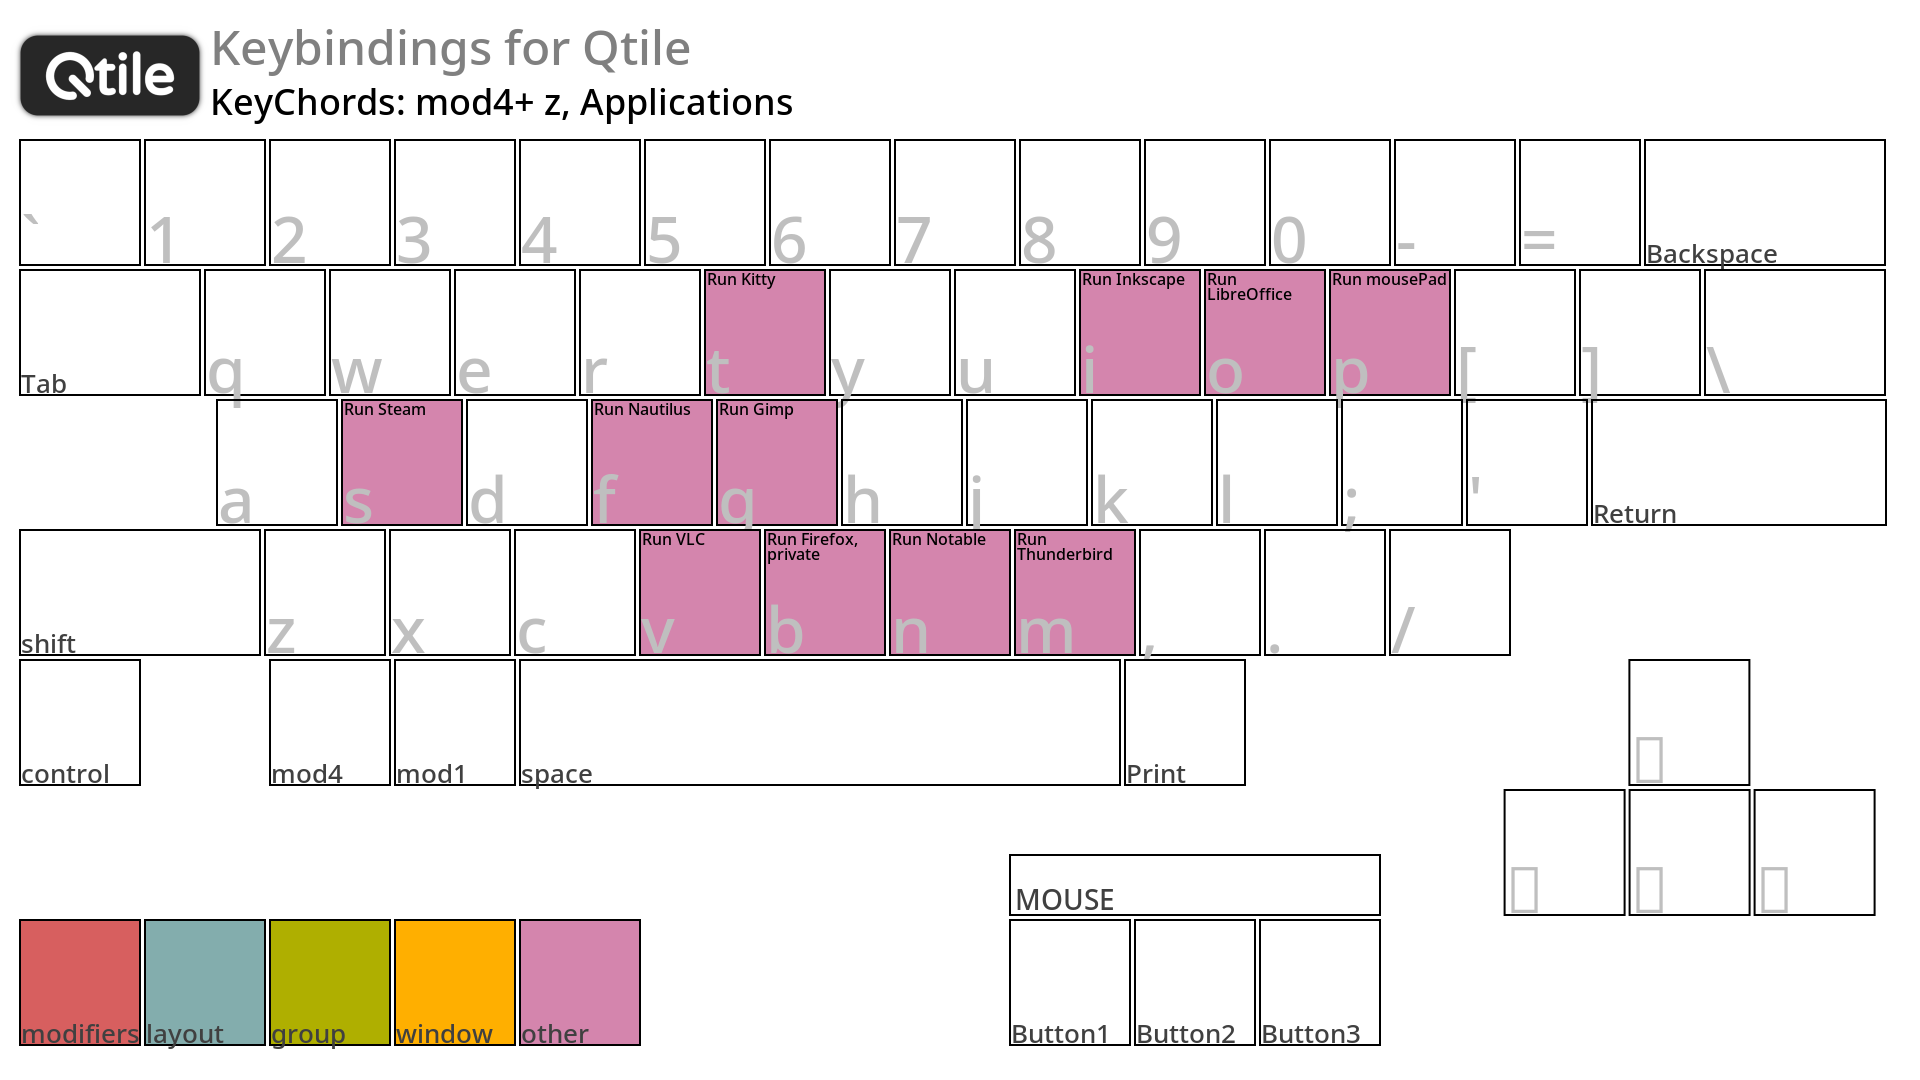
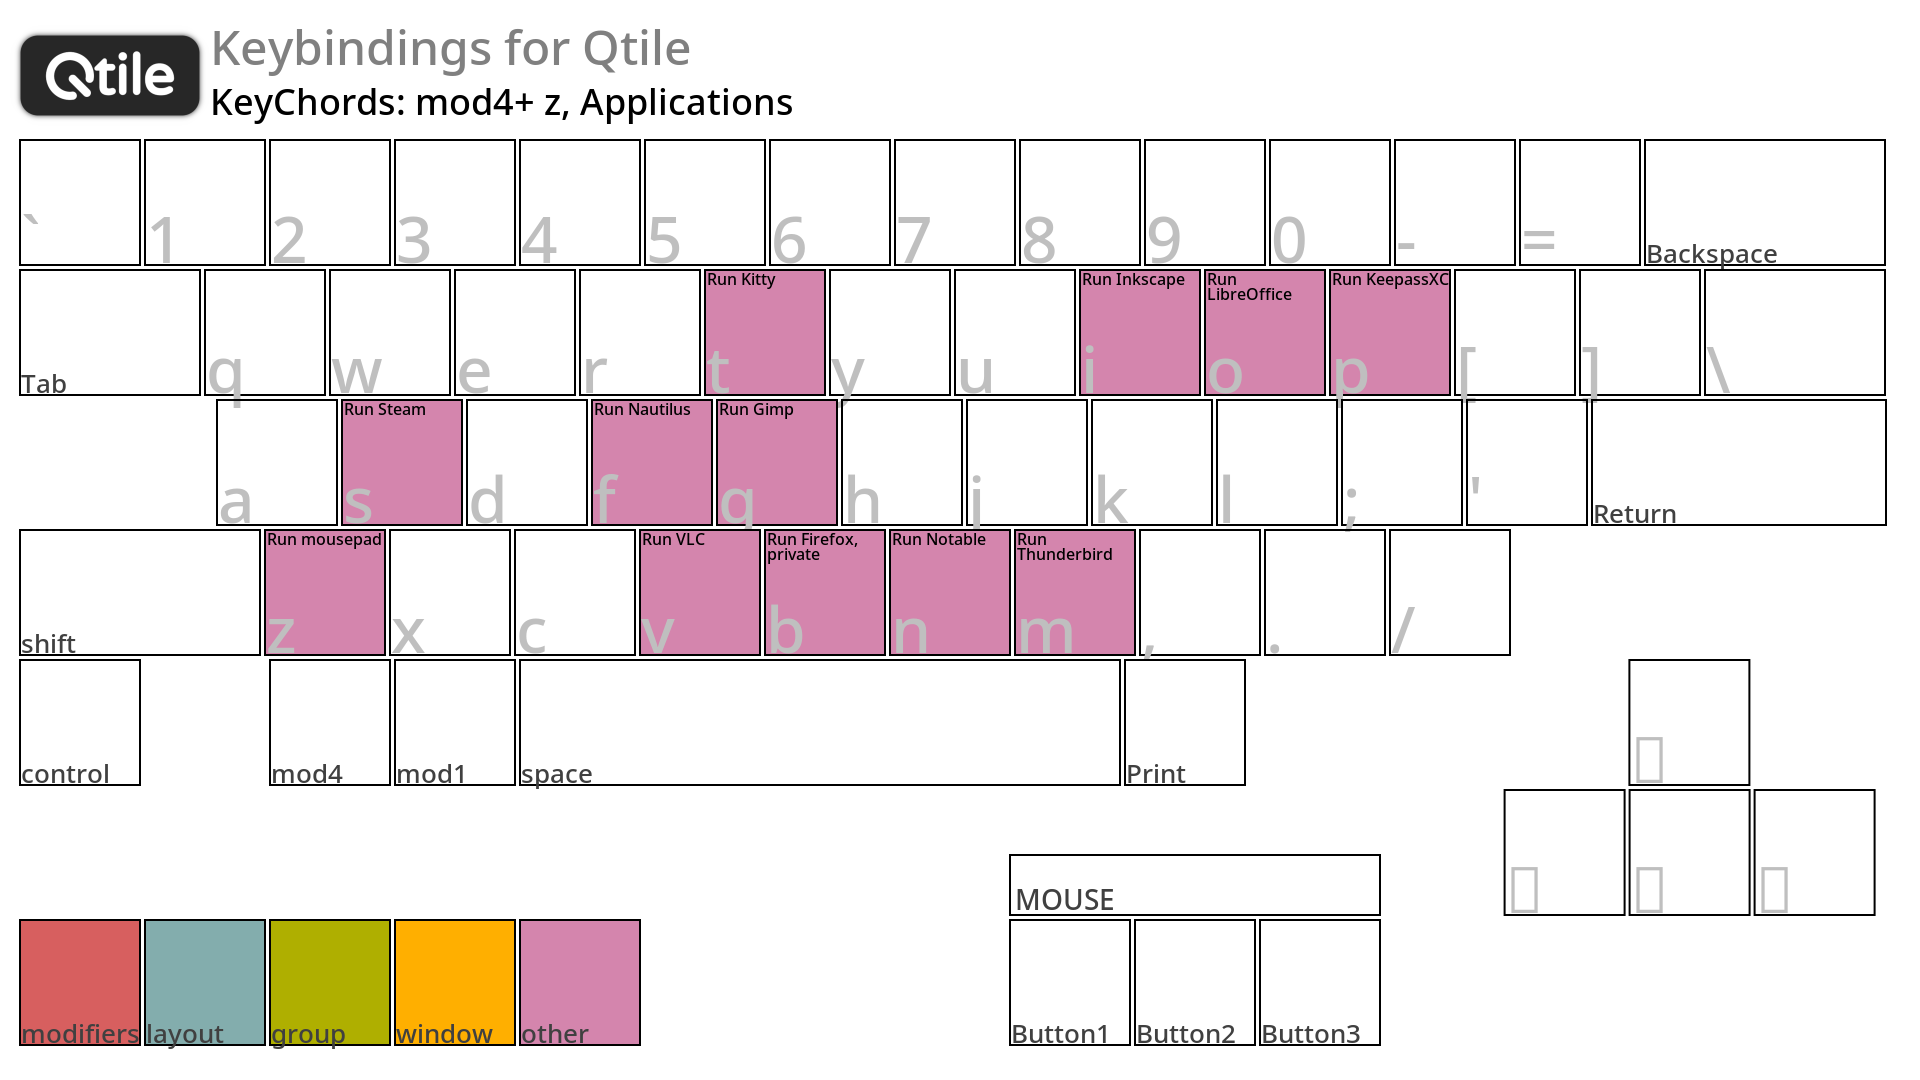
Fixed a keybinding conflict in Qtile.

Changed region(s): [[0.125, 0.4889, 0.2188, 0.6111], [0.7188, 0.2444, 0.75, 0.275]]

diff --git a/qtile/modules/keys.py b/qtile/modules/keys.py
@@ -133,36 +133,37 @@ keys = [
       Key([],      'g', lazy.spawn('gimp'), desc = 'Run Gimp'),
       # Graphic, Vector format
       Key([],      'i', lazy.spawn('inkscape'), desc = 'Run Inkscape'),
-
       # Office
       Key([],      'o', lazy.spawn('libreoffice'), desc = 'Run LibreOffice'),
       #
       Key([],      'n', lazy.spawn('notable'), desc = 'Run Notable'),
-      Key([],      'p', lazy.spawn('mousepad'), desc = 'Run mousePad'),
       Key([],      's', lazy.spawn('flatpak run com.valvesoftware.Steam'), desc = 'Run Steam'),
       Key([],      't', lazy.spawn('kitty'), desc = 'Run Kitty'),
+      Key([],      'z', lazy.spawn('mousepad'), desc = 'Run mousepad'),
     ],
     mode = False,
     name = 'Applications',
   ),
 
 
-  KeyChord([MOD4], 'c', [
-      # NOTE: When running anything other than Kitty, pressing Mod4+Return launches xfce4-terminal.
-      # NOTE: The reason is unknown.
-      Key([], 'a', lazy.spawn('alacritty'),      desc = 'Run Alacritty'),
-      Key([], 'g', lazy.spawn('ghostty'),        desc = 'Run Ghostty'),
-      Key([], 'k', lazy.spawn('kitty'),          desc = 'Run Kitty'),
-      Key([], 'w', lazy.spawn('wezterm'),        desc = 'Run Wezterm'),
-      Key([], 'x', lazy.spawn('xfce4-terminal'), desc = 'Run Xfce4-terminal'),
-    ],
-    mode = False,
-    name = 'Terminal',
-  ),
+  # KeyChord([MOD4], 'c', [
+  #     # NOTE:
+  #     #  When running anything other than Kitty, pressing Mod4+Return launches xfce4-terminal.
+  #     #  The reason is unknown.
+  #     #  Do the symptoms above mean I need to modify the "Default Applications" in Xfce4?
+  #     Key([], 'a', lazy.spawn('alacritty'),      desc = 'Run Alacritty'),
+  #     Key([], 'g', lazy.spawn('ghostty'),        desc = 'Run Ghostty'),
+  #     Key([], 'k', lazy.spawn('kitty'),          desc = 'Run Kitty'),
+  #     Key([], 'w', lazy.spawn('wezterm'),        desc = 'Run Wezterm'),
+  #     Key([], 'x', lazy.spawn('xfce4-terminal'), desc = 'Run Xfce4-terminal'),
+  #   ],
+  #   mode = False,
+  #   name = 'Terminal',
+  # ),
 
 
   # This is test.
-  Key([MOD4], "F2", lazy.spawn("vlc")),
+  # Key([MOD4], "F2", lazy.spawn("vlc")),
 ]
 
 
